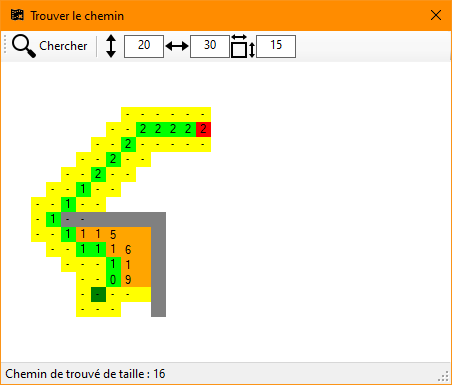
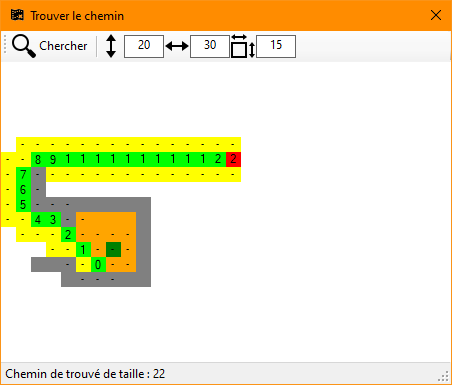
Oubli de reset les labels

Changed region(s): [[0.0, 0.2805, 0.5575, 0.8416], [0.3407, 0.9351, 0.3717, 0.9974]]

diff --git a/Trouver le chemin/Form1.cs b/Trouver le chemin/Form1.cs
@@ -93,8 +93,10 @@ namespace Trouver_le_chemin
                 // Reset les cases
                 foreach (Label uneCase in this.lesCases)
                 {
+                    uneCase.Text = "";
                     changeCaseColor(uneCase, this.colorVide);
                 }
+                this.toolStripStatusLabel1.Text = "";
                 this.bonVoisinsTrouves.Clear();
                 this.bonChemin.Clear();
                 this.caseDejaVerifiee.Clear();
